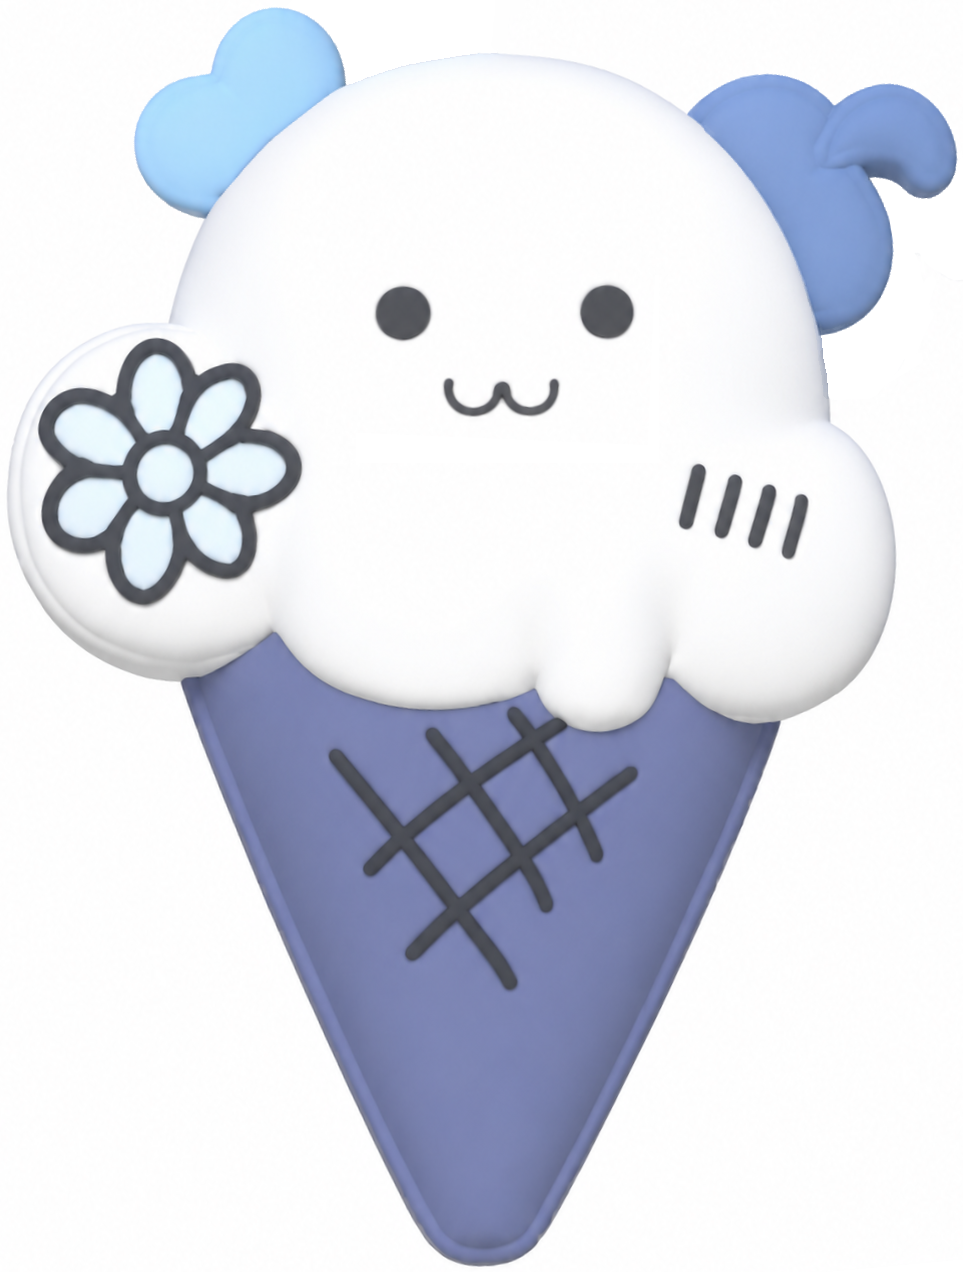
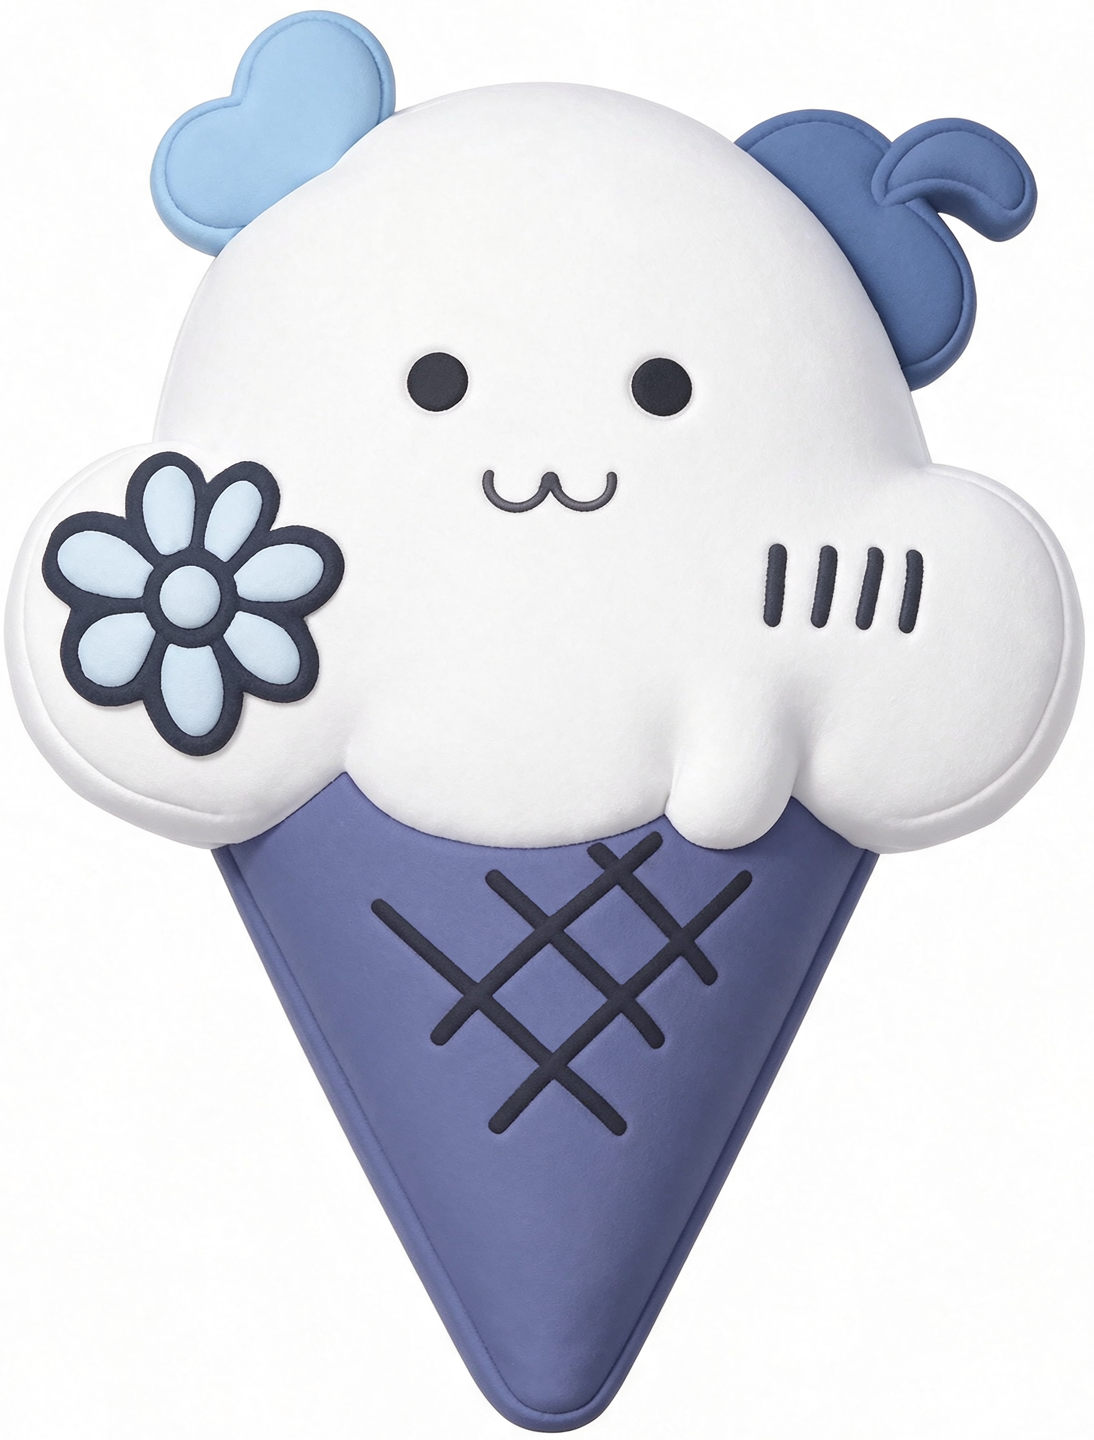
update nql

diff --git a/layouts/partials/social-icons.html b/layouts/partials/social-icons.html
@@ -25,17 +25,13 @@
   本站及站内所有图片均可免费使用，无需标注来源或@作者，欢迎随意取用
 </div>
 <div style="font-size: 17px;margin-top: 5px;margin-left: 5px;margin-right: 5px;text-align: center;">
-  受产能与生图模型限制，三视图与原始模型可能存在细节差异<br/>
-  因背对视角素材较难获取，只有极少数做了后视图<br/>
-  <span style="color: palevioletred">不建议作为实体物料的参考图，因为还原度不到100%</span><br/>
-  部分还原度度很低的图片会不定期重制优化(会追加而不是替换，请自行选择合适的图)<br/>
-  如有不便，敬请谅解，欢迎随时联系反馈<br/>
+  部分模型做的比较差，因为早期的生图模型效果一般
+</div>
+<div style="color: palevioletred;font-size: 17px;margin-top: 5px;margin-left: 5px;margin-right: 5px;text-align: center;">
+  不建议作为实体物料的参考图，因为还原度不到100%
 </div>
 <div style="font-size: 17px;margin-top: 5px;margin-left: 5px;margin-right: 5px;text-align: center;">
-  ps: gpt-image-2的参考一致性更好但图片偏白，nano-banana的参考一致性偏差、色调偏灰暗但图片质感更接近直播里的状态。
-</div>
-<div style="font-size: 17px;margin-top: 5px;margin-left: 5px;margin-right: 5px;text-align: center;">
-  更新ps: 用seedream 5.5就行了，完全没毛病
+  ps: 用<span style="color:red">Seedream 5.5</span>就完事了，别再用gpt和banana了
 </div>
 <div style="font-size: 17px;margin-top: 5px;margin-left: 5px;margin-right: 5px;text-align: center;">
   ps: 在参考图片中加入角色设定(比如名称、<span style="font-weight: bold;">身高</span>)，也可以在生成视频时提供参考
